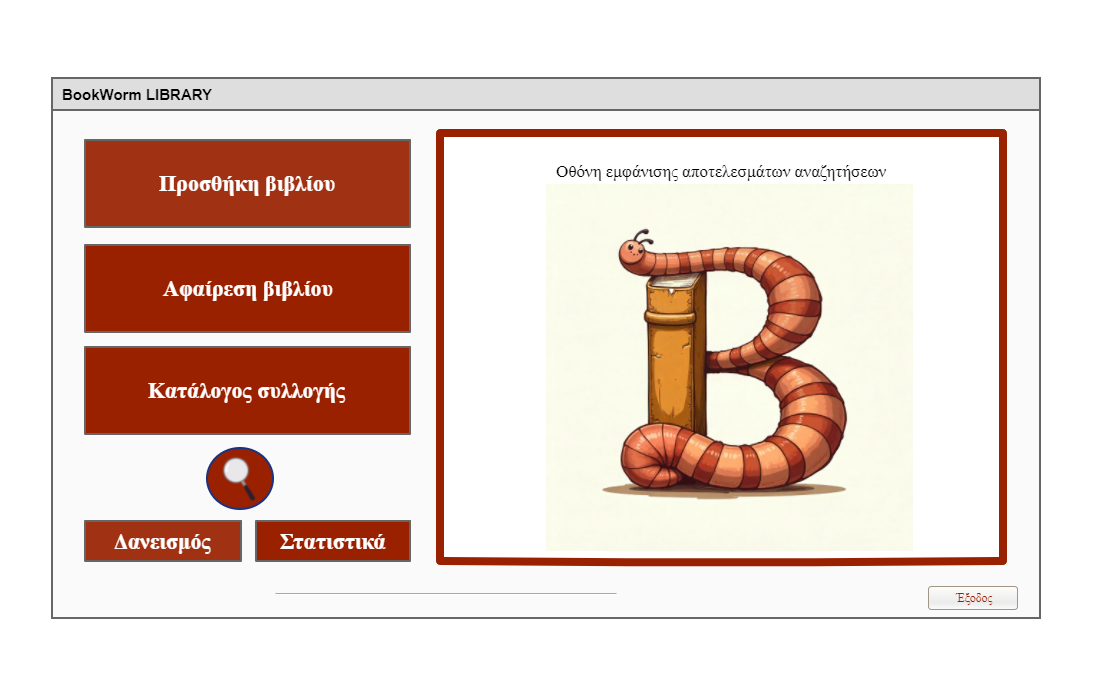
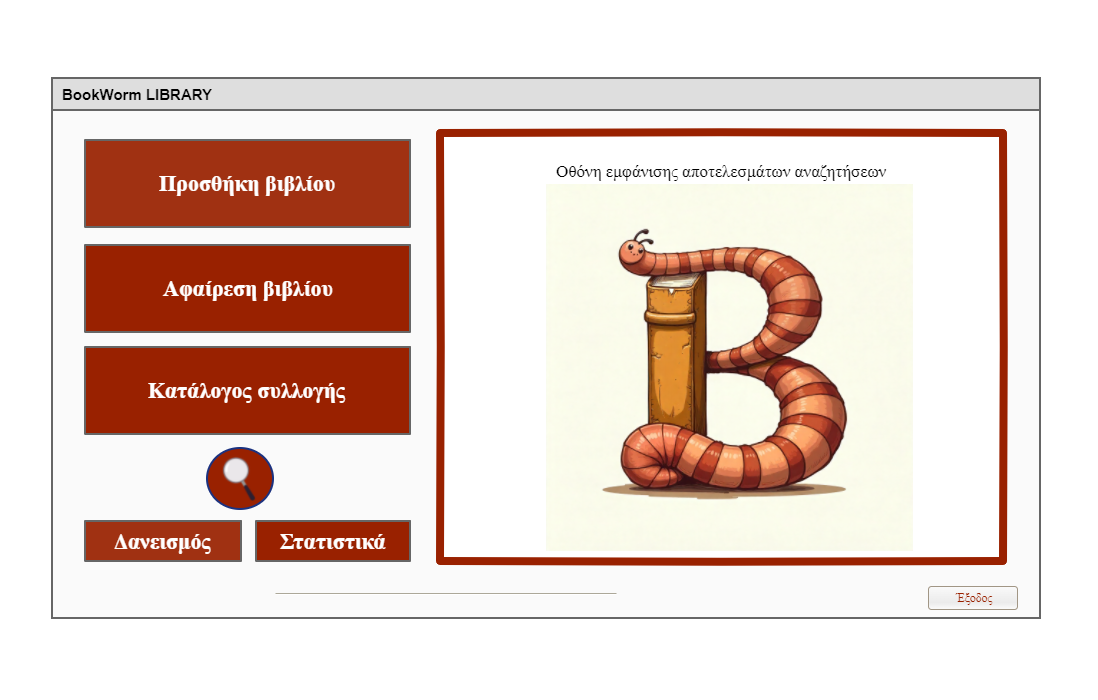
Add files via upload

Changed region(s): [[0.5264, 0.78, 0.7741, 0.81]]

diff --git a/index.html b/index.html
@@ -1,2 +1,2 @@
 <html xmlns="http://www.w3.org/1999/xhtml" xmlns:p="http://www.evolus.vn/Namespace/Pencil" xmlns:html="http://www.w3.org/1999/xhtml"><head><meta http-equiv="Content-Type" content="text/html; charset=UTF-8" />
-<title>Mock</title><link rel="stylesheet" href="Resources/SampleStyle.css" /></head><body><h1 id="documentTitle">Mock</h1><p id="documentMetadata">Exported at: Tue Nov 18 2025 23:39:49 GMT+0200 (Χειμερινή ώρα Ανατολικής Ευρώπης)</p><div class="Page" id="main_page"><h2>Main</h2><div class="ImageContainer"><img src="pages\main.png" width="NaN" height="NaN" usemap="#map_main" /></div><map name="map_main"><area shape="rect" coords="85,245,410,332" href="#_1_page" title="Go to page 'Αφαίρεση'" /><area shape="rect" coords="85,140,410,227" href="#_page" title="Go to page 'Προσθήκη'" /><area shape="rect" coords="256,521,410,561" href="#_3_page" title="Go to page 'Στατιστικά'" /><area shape="rect" coords="85,521,241,561" href="#_2_page" title="Go to page 'Δανεισμός'" /></map></div><div class="Page" id="_page"><h2>Προσθήκη</h2><div class="ImageContainer"><img src="pages\.png" width="NaN" height="NaN" usemap="#map_" /></div><map name="map_"></map></div><div class="Page" id="_1_page"><h2>Αφαίρεση</h2><div class="ImageContainer"><img src="pages\_1.png" width="NaN" height="NaN" usemap="#map__1" /></div><map name="map__1"></map></div><div class="Page" id="_2_page"><h2>Δανεισμός</h2><div class="ImageContainer"><img src="pages\_2.png" width="NaN" height="NaN" usemap="#map__2" /></div><map name="map__2"></map></div><div class="Page" id="_3_page"><h2>Στατιστικά</h2><div class="ImageContainer"><img src="pages\_3.png" width="NaN" height="NaN" usemap="#map__3" /></div><map name="map__3"></map></div></body></html>
+<title>Mock</title><link rel="stylesheet" href="Resources/SampleStyle.css" /></head><body><h1 id="documentTitle">Mock</h1><p id="documentMetadata">Exported at: Sat Nov 22 2025 19:25:42 GMT+0200 (Χειμερινή ώρα Ανατολικής Ευρώπης)</p><div class="Page" id="main_page"><h2>Main</h2><div class="ImageContainer"><img src="pages\main.png" width="NaN" height="NaN" usemap="#map_main" /></div><map name="map_main"><area shape="rect" coords="205,445,273,513" href="#_4_page" title="Go to page 'Αναζήτηση'" /><area shape="rect" coords="85,245,410,332" href="#_1_page" title="Go to page 'Αφαίρεση'" /><area shape="rect" coords="85,140,410,227" href="#_page" title="Go to page 'Προσθήκη'" /><area shape="rect" coords="256,521,410,561" href="#_3_page" title="Go to page 'Στατιστικά'" /><area shape="rect" coords="85,521,241,561" href="#_2_page" title="Go to page 'Δανεισμός'" /></map></div><div class="Page" id="_page"><h2>Προσθήκη</h2><div class="ImageContainer"><img src="pages\.png" width="NaN" height="NaN" usemap="#map_" /></div><map name="map_"><area shape="rect" coords="916.5,576.5,1005.5,599.5" href="#main_page" title="Go to page 'Main'" /></map></div><div class="Page" id="_1_page"><h2>Αφαίρεση</h2><div class="ImageContainer"><img src="pages\_1.png" width="NaN" height="NaN" usemap="#map__1" /></div><map name="map__1"><area shape="rect" coords="916.5,576.5,1005.5,599.5" href="#main_page" title="Go to page 'Main'" /></map></div><div class="Page" id="_2_page"><h2>Δανεισμός</h2><div class="ImageContainer"><img src="pages\_2.png" width="NaN" height="NaN" usemap="#map__2" /></div><map name="map__2"><area shape="rect" coords="949.5,596.5,1038.5,619.5" href="#main_page" title="Go to page 'Main'" /></map></div><div class="Page" id="_3_page"><h2>Στατιστικά</h2><div class="ImageContainer"><img src="pages\_3.png" width="NaN" height="NaN" usemap="#map__3" /></div><map name="map__3"><area shape="rect" coords="847.5,495.5,936.5,518.5" href="#main_page" title="Go to page 'Main'" /></map></div><div class="Page" id="_4_page"><h2>Αναζήτηση</h2><div class="ImageContainer"><img src="pages\_4.png" width="NaN" height="NaN" usemap="#map__4" /></div><map name="map__4"><area shape="rect" coords="936.5,621.5,1025.5,644.5" href="#main_page" title="Go to page 'Main'" /></map></div></body></html>
